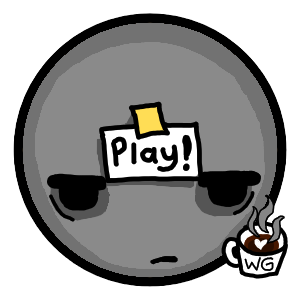
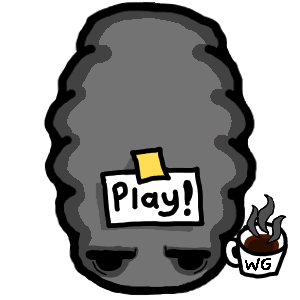
curiosito y robot

diff --git a/src/OpenScene.js b/src/OpenScene.js
@@ -55,8 +55,8 @@ var progress = 1 - (remainder / total);
   
         // samurai evolution
         this.load.image("samuraiPlayer", "/assets/images/samuraiSkin.png");
-        // warrior evolution
-        this.load.image("warriorPlayer", "/assets/images/warriorSkin.png");
+        // robot evolution
+        this.load.image("robotPlayer", "/assets/images/robotSkin.png");
         // knight evolution
         this.load.image("knightPlayer", "/assets/images/knightSkin.png");
 
@@ -67,8 +67,8 @@ var progress = 1 - (remainder / total);
 
         this.load.image("spiderPlayer", "/assets/images/spiderSkin.png");
         this.load.image("abejaPlayer", "/assets/images/abejaSkin.png");
-        // warrior evolution
-        this.load.image("warriorPlayer", "/assets/images/warriorSkin.png");
+        // robot evolution
+        this.load.image("robotPlayer", "/assets/images/robotSkin.png");
         // knight evolution
         this.load.image("knightPlayer", "/assets/images/knightSkin.png");
 

diff --git a/classes/evolutions/Abeja.js b/classes/evolutions/Abeja.js
@@ -2,7 +2,7 @@
 
 const Evolution = require("./Evolution");
 
-const Warrior = require("./Warrior");
+const Robot = require("./Robot");
 const Rook = require("./Rook");
 
 class Abeja extends Evolution {
@@ -11,7 +11,7 @@ class Abeja extends Evolution {
         this.name = "abeja";
         this.abilityDuration = 5000;
         this.abilityCooldown = 60000;
-        this.subEvolutions = [20000, new Warrior(), new Rook()];
+        this.subEvolutions = [20000, new Robot(), new Rook()];
     }
     default() {
         return {

diff --git a/classes/evolutions/Robot.js b/classes/evolutions/Robot.js
@@ -1,8 +1,8 @@
 const Evolution = require("./Evolution");
-class Warrior extends Evolution {
+class Robot extends Evolution {
     constructor() {
         super();
-        this.name = "warrior";
+        this.name = "robot";
         this.abilityDuration = 5000;
         this.abilityCooldown = 90000;
         this.subEvolutions = [];
@@ -33,4 +33,4 @@ class Warrior extends Evolution {
         };
     }
 }
-module.exports = Warrior;
+module.exports = Robot;

diff --git a/classes/evolutions/Ratoncin.js b/classes/evolutions/Ratoncin.js
@@ -1,6 +1,6 @@
 
 const Evolution = require("./Evolution");
-class Warrior extends Evolution {
+class Robot extends Evolution {
     constructor() {
         super();
         this.name = "ratoncin";
@@ -30,4 +30,4 @@ class Warrior extends Evolution {
         };
     }
 }
-module.exports = Warrior;
+module.exports = Robot;
